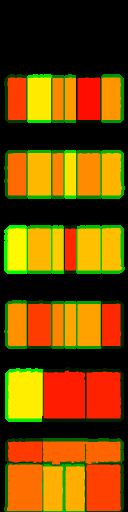
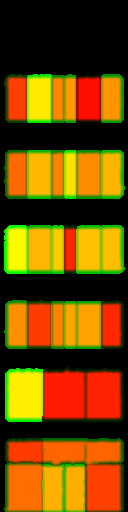
feat(present): facades: the glow map's window mask is blurred and the shader sharpens it, so a half-size map keeps smooth window edges

diff --git a/src/game/present/facades.ts b/src/game/present/facades.ts
@@ -148,7 +148,7 @@ const WINDOW_EMISSIVE = /* glsl */ `
 #ifdef USE_EMISSIVEMAP
 vec2 facadeWindow = texture2D(emissiveMap, vEmissiveMapUv).rg;
 float facadeOn = step(fract(facadeWindow.g + vFacadeSeed), facadeGlow * ${LIT_SHARE.toFixed(2)});
-totalEmissiveRadiance *= facadeWindow.r * facadeOn;
+totalEmissiveRadiance *= smoothstep(0.3, 0.7, facadeWindow.r) * facadeOn;
 #endif`;
 
 /** One material per style: its maps (stand-ins until they load), the windows' glow, tagged as concrete. */
